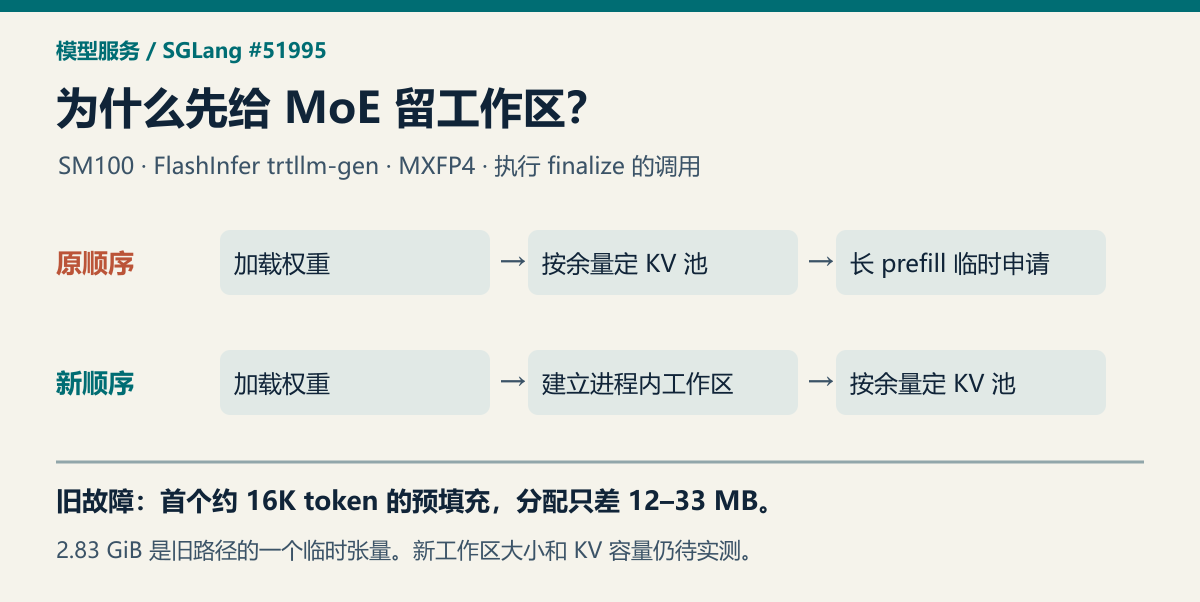
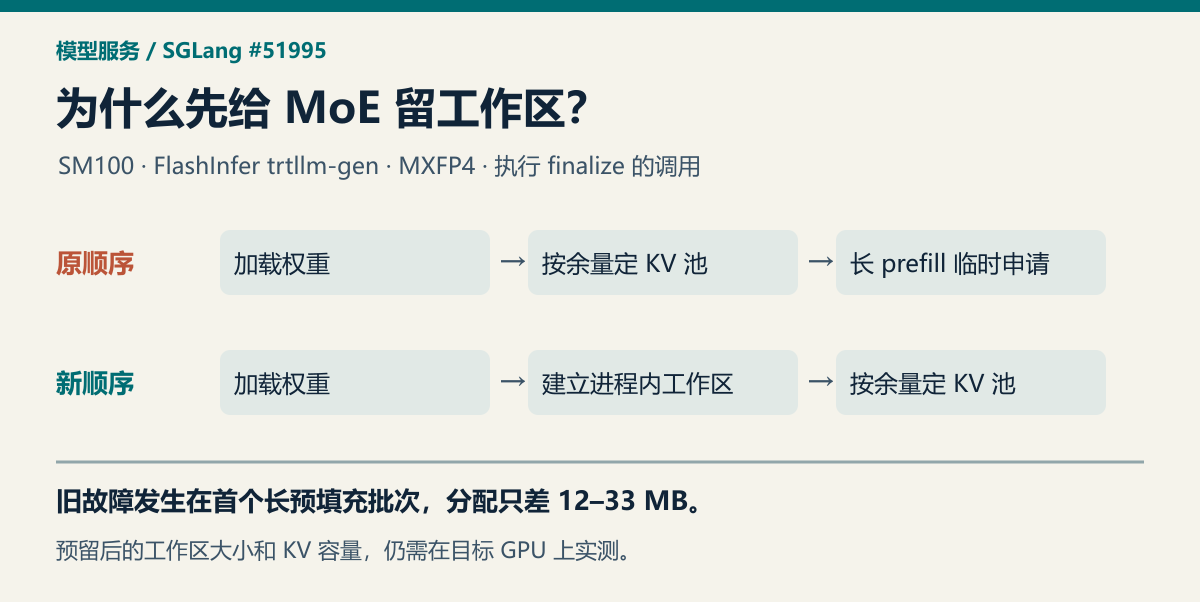
docs(report): 归档 11 月 22 日六篇 AI Infra 晨报

Changed region(s): [[0.0925, 0.8073, 0.6475, 0.8671], [0.0308, 0.897, 0.6167, 0.9568]]

diff --git a/reports/2026-11-22/articles/inference-engines.md b/reports/2026-11-22/articles/inference-engines.md
@@ -1,19 +1,21 @@
-# 推理引擎每日变动：vLLM 加快循环状态更新，SGLang 减少 Q/K 拷贝
+# 推理引擎每日变动：vLLM 新增 GDN 解码内核，SGLang 减少 Q/K 拷贝
 
-本期代码窗口为北京时间 11 月 21 日 06:20 至 22 日 06:20。vLLM 和 SGLang 都减少了推理中的内存操作，但一个改的是循环状态更新，另一个改的是 Q/K 归一化。下面分别给出实现、负载和计时单位。
+本期代码窗口为北京时间 11 月 21 日 06:20 至 22 日 06:20。vLLM 调整 GDN 循环状态更新，SGLang 调整 ROCm 上的 Q/K 归一化。
 
 ## vLLM
 
-11 月 21 日合入的 #69065 为 CUDA 上的 BF16/FP16 GDN 循环状态增加 MTP 解码内核。新路径用 16 个 lane 分组、128 位读写在寄存器与显存间搬运状态，同时保持与原路径一致的归约顺序。小批次或 FP32 状态仍可走旧路径。作者用 FP32、BF16 和 FP16 循环状态做了共 240 组逐位比对，输出和状态均一致。其中，FP16 用例和下文 FP16 微基准都以补入本 PR 的 FP16 支持后的旧融合 CUDA 内核为参照。合并前的基线代码只接受 BF16 或 FP32 循环状态：FP16 默认回退到 Triton，显式设置 `VLLM_GDN_DECODE_KERNEL=cuda` 则会报错。[内核和正确性测试](https://api.github.com/repos/vllm-project/vllm/pulls/69065) · [分派条件和实际差异](https://api.github.com/repos/vllm-project/vllm/pulls/69065/files?per_page=100) · [合并前的分派源码](https://raw.githubusercontent.com/vllm-project/vllm/2f170a0fed20fd84dfcf6da2a3a8188a32f67e4e/vllm/model_executor/layers/mamba/gdn/qwen_gdn_linear_attn.py)
+北京时间 11 月 21 日合入的 #69065 为 BF16/FP16 循环状态新增 GDN MTP 解码内核。这个内核只为 `sm_103a` 构建，调整了点积归约时线程间交换数据的方式。[内核和正确性测试](https://api.github.com/repos/vllm-project/vllm/pulls/69065) · [分派条件和实际差异](https://api.github.com/repos/vllm-project/vllm/pulls/69065/files?per_page=100)
 
-另一次端到端解码对照在 4×GB300 上运行 Qwen3.8-Flash-Next-FP8，使用 DEP4、MTP3 和 FP16 状态。测试先缓存 30,720 个前缀 token，再输入 1 个、生成 1,024 个。**每个引擎 32 个请求**时，作者用缓存命中的平均 TPOT 乘以平均接受长度，折算每个 decode step 从 16.92–16.98 ms 降至 16.07–16.11 ms。这个值覆盖缓存命中后的解码，未计入冷预填充。作者另报的 1.3–1.6 倍是微内核计时，不能直接换算成在线吞吐增幅。窗内默认分支提交和合并 PR 各 35 项；官方博客最新所见的 Mini 技术文章已在上期报道。[服务负载与计时](https://api.github.com/repos/vllm-project/vllm/pulls/69065) · [提交记录](https://api.github.com/repos/vllm-project/vllm/commits?page=1&per_page=100&since=2026-11-20T22%3A20%3A00Z&until=2026-11-21T22%3A20%3A00Z) · [官方博客](https://vllm.ai/blog)
+合并前，FP16 循环状态默认回退到 Triton。这次改动也让融合 CUDA 路径能接受 FP16 状态。核对服务所用路径时，需要结合状态精度、设备和实际分派条件。[内核和正确性测试](https://api.github.com/repos/vllm-project/vllm/pulls/69065) · [合并前的分派源码](https://raw.githubusercontent.com/vllm-project/vllm/2f170a0fed20fd84dfcf6da2a3a8188a32f67e4e/vllm/model_executor/layers/mamba/gdn/qwen_gdn_linear_attn.py)
+
+本期同时核对了 vLLM 默认分支和官方博客。[提交记录](https://api.github.com/repos/vllm-project/vllm/commits?page=1&per_page=100&since=2026-11-20T22%3A20%3A00Z&until=2026-11-21T22%3A20%3A00Z) · [官方博客](https://vllm.ai/blog)
 
 ## SGLang
 
-11 月 21 日合入的 #39071 在 ROCm 上直接把 packed QKV 中 Q、K 切片的实际步长交给融合归一化内核，原地更新，省去先整理为连续二维张量的拷贝。空批次直接返回；视觉分支在 TP 大于 1 时保留跨全部头的归一化。JIT 不可用还有回退路径。[步长传递与路径选择](https://api.github.com/repos/sgl-project/sglang/pulls/39071/files?per_page=100)
+北京时间 11 月 21 日合入的 #39071 让 ROCm 融合归一化内核直接处理 packed QKV 中带步长的 Q、K 切片，并原地更新。命中这条路径时，可以省去为归一化准备连续张量的拷贝。[步长传递与路径选择](https://api.github.com/repos/sgl-project/sglang/pulls/39071/files?per_page=100) · [合并说明](https://api.github.com/repos/sgl-project/sglang/pulls/39071)
 
-PR 说明在本期截止后有过更新。以下是取证时读到的作者结果，合并时间则由窗内记录确认。MI355X 的 BF16 图重放测试显式设置了 `SGLANG_USE_AITER=1`。基线先拷贝 Q/K，再分别为 Q 和 K 启动一次 AITER RMSNorm；换用融合内核后，12 个形状的逐项耗时之和从 640.5 降到 182.7 微秒。另在 MI325X 上，用 Qwen3-30B-A3B、TP1、随机 1,024 入/128 出、关闭 radix cache 做三对交替离线运行，吞吐中位变化为 +3.11%；无需 QK norm 的 Mistral-7B 对照为 −0.21%。两组硬件、负载和指标都不同，在线 P99 尚待实测。窗内默认分支提交和合并 PR 各 96 项；已读官方目录没有可核定的新文。[作者的分平台数据](https://api.github.com/repos/sgl-project/sglang/pulls/39071) · [窗内合并列表](https://api.github.com/search/issues?order=desc&page=1&per_page=100&q=repo%3Asgl-project%2Fsglang+is%3Apr+merged%3A2026-11-20T22%3A20%3A00Z..2026-11-21T22%3A20%3A00Z&sort=updated) · [官方博客](https://www.sglang.io/blog)
+本期还核对了 SGLang 的窗内合并列表和官方博客。[窗内合并列表](https://api.github.com/search/issues?order=desc&page=1&per_page=100&q=repo%3Asgl-project%2Fsglang+is%3Apr+merged%3A2026-11-20T22%3A20%3A00Z..2026-11-21T22%3A20%3A00Z&sort=updated) · [官方博客](https://www.sglang.io/blog)
 
 ## DeepInfer
 
-当窗默认分支提交为 0，全仓合并 PR 为 0，release 列表为空。官方 Open Infra 文章目录最新顶级月份为 2025 年 5 月，结合仓库 README、提交与 PR 检查，本窗没有找到可定为新文章的内容。README 介绍的开源离线推理能力可作背景，本期没有据此新增引擎事件。[默认分支提交](https://api.github.com/repos/deepseek-ai/DeepInfer/commits?page=1&per_page=100&since=2026-11-20T22%3A20%3A00Z&until=2026-11-21T22%3A20%3A00Z) · [全仓合并列表](https://api.github.com/search/issues?order=desc&page=1&per_page=100&q=repo%3Adeepseek-ai%2FDeepInfer+is%3Apr+merged%3A2026-11-20T22%3A20%3A00Z..2026-11-21T22%3A20%3A00Z&sort=updated) · [发布列表](https://api.github.com/repos/deepseek-ai/DeepInfer/releases?page=1&per_page=5) · [Open Infra 目录](https://raw.githubusercontent.com/deepseek-ai/open-infra-index/HEAD/README.md) · [官方 README](https://raw.githubusercontent.com/deepseek-ai/DeepInfer/HEAD/README.md)
+本窗口的默认分支提交和全仓合并 PR 均无新增，读取的 release 列表为空。已核对的官方 Open Infra 目录和仓库 README 也未提供可确认为本期新文的条目。[默认分支提交](https://api.github.com/repos/deepseek-ai/DeepInfer/commits?page=1&per_page=100&since=2026-11-20T22%3A20%3A00Z&until=2026-11-21T22%3A20%3A00Z) · [全仓合并列表](https://api.github.com/search/issues?order=desc&page=1&per_page=100&q=repo%3Adeepseek-ai%2FDeepInfer+is%3Apr+merged%3A2026-11-20T22%3A20%3A00Z..2026-11-21T22%3A20%3A00Z&sort=updated) · [发布列表](https://api.github.com/repos/deepseek-ai/DeepInfer/releases?page=1&per_page=5) · [Open Infra 目录](https://raw.githubusercontent.com/deepseek-ai/open-infra-index/HEAD/README.md) · [官方 README](https://raw.githubusercontent.com/deepseek-ai/DeepInfer/HEAD/README.md)

diff --git a/reports/2026-11-22/articles/model-architecture-status.md b/reports/2026-11-22/articles/model-architecture-status.md
@@ -1,17 +1,15 @@
 # 模型与架构：Inkling 2 Mini 合入 vLLM，三遍循环各存一份状态
 
-昨天的晨报记录了固定版 Inkling 2 Mini 检查点。11 月 21 日新增的是 vLLM 主线合并 #69028，涉及 54 个文件。此前记录的模型卡口径为总参数 26.4B、单遍激活 3.4B，计入循环后每 token 有效权重激活约 5.4B。约 20 GB 是混合 NVFP4/MXFP8 检查点文件大小，实际服务还要给运行状态留空间。[上游合并及复核](https://api.github.com/repos/vllm-project/vllm/pulls/69028) · [此前固定版本的模型卡](https://huggingface.co/thinkingmachines/Inkling-2-Mini/raw/1fb4134b9a74f9681054f4ef82e4bf1f458a2337/README.md)
+上期记录了 Inkling 2 Mini 的固定版检查点。北京时间 11 月 22 日，vLLM 主线合入 #69028，加入这款循环 MoE 模型的实现。部署时，模型权重和各遍计算留下的运行状态要分别计入显存。[上游合并及复核](https://api.github.com/repos/vllm-project/vllm/pulls/69028) · [此前固定版本的模型卡](https://huggingface.co/thinkingmachines/Inkling-2-Mini/raw/1fb4134b9a74f9681054f4ef82e4bf1f458a2337/README.md)
 
 ## 为什么要保存三遍状态
 
-每个 token 三次经过第 6–17 层。每遍从前段产生的注意力残差状态开始，后续遍通过门控读入上一遍的消息。核心计算可以共用参数，但一遍生成的注意力历史和卷积状态有自己的时间顺序。实现把各遍的注意力缓存呈现为额外的缓存层，复用引擎的 KV 管理和前缀缓存，再分别维护各遍卷积状态。固定三遍 Mini 与可调遍数的研究模型应分别核对，后者可以选择共享 KV 的配置，卷积状态仍要分遍。[循环、状态和缓存的实现](https://api.github.com/repos/vllm-project/vllm/pulls/69028/files?per_page=100)
+固定版 Mini 的每个 token 都要经过同一组核心层三遍。三遍共享核心权重。从第二遍开始，门控会把上一遍的消息带进当前计算。各遍的注意力历史和卷积状态要分别保存。vLLM 把每遍的注意力缓存表示为额外缓存层，沿用现有 KV 管理和前缀缓存。[循环、状态和缓存的实现](https://api.github.com/repos/vllm-project/vllm/pulls/69028/files?per_page=100)
 
 ![固定版 Mini 共享核心权重，各遍分别写入 KV 与卷积状态](assets/inkling-state.png)
 
-在 GB200 上，作者用 TP1、DSpark、温度 0 做了 200 道 GSM8K 题，得到 97.0%，平均接受长度 3.58。先前实现是 97.5%，相差一道题。另一个 #69021 测的是 GB10 上 hidden 4608 的矩阵乘微内核，从 210 降到 141 微秒；Mini 的 hidden 是 2304，不能据此给 Mini 的整段服务标加速比。本期核到的 vLLM 最新稳定版 v0.34.0 发布早于此次合并。[GB200 复核](https://api.github.com/repos/vllm-project/vllm/pulls/69028) · [GB10 后续优化](https://api.github.com/repos/vllm-project/vllm/pulls/69021) · [稳定版记录](https://api.github.com/repos/vllm-project/vllm/releases/latest)
+## 部署时怎样确认支持
 
-## 超配验证要检查什么
+本期查到的稳定版发布早于此次合入。使用固定版 Mini 前，可先检查部署版本是否包含这次模型适配。相关的 GB10 矩阵乘微内核优化记录在另一个 PR 中。[上游合并及复核](https://api.github.com/repos/vllm-project/vllm/pulls/69028) · [稳定版记录](https://api.github.com/repos/vllm-project/vllm/releases/latest) · [GB10 后续优化](https://api.github.com/repos/vllm-project/vllm/pulls/69021)
 
-先确认资源分配器能识别目标设备与拓扑，再用固定检查点、量化打包和相同 rank 布局，比较单实例原生与受管分配器的输出、逐遍 KV 和卷积状态。前缀命中、扩缩回收和图重放都要覆盖。同模型双实例还要测共享权重的所有者退出后另一个实例能否继续，以及两租户混合长短请求时的峰值、吞吐和 P99。不同模型独立计算权重。现有 GB200 复核尚不能回答 H100、H200 的同卡双实例表现，Pro5500 的准确型号也待核实。[原生缓存与设备适配范围](https://api.github.com/repos/vllm-project/vllm/pulls/69028/files?per_page=100)
-
-本期已核对智谱、DeepSeek、Qwen 在 ModelScope 的组织清单，按更新时间倒序检查到七天下界。智谱博客返回 404，已读官网研究目录和更新记录不足以覆盖全部文章，因此保留架构方向缺口。[智谱研究目录](https://www.zhipuai.cn/zh/research) · [官方更新记录](https://docs.z.ai/release-notes/new-released.md)
+本期查过智谱、DeepSeek 和 Qwen 的 ModelScope 组织清单。智谱博客返回 404。已读官网研究目录和更新记录未覆盖全部文章，架构方向保留这一缺口。[智谱研究目录](https://www.zhipuai.cn/zh/research) · [官方更新记录](https://docs.z.ai/release-notes/new-released.md)

diff --git a/reports/2026-11-22/articles/hardware-status.md b/reports/2026-11-22/articles/hardware-status.md
@@ -1,18 +1,9 @@
-# 硬件与算力平台：四张 RTX 3090 上，解码提速，冷预填充几乎持平
+# 硬件与算力平台：Merlin 更新四张 RTX 3090 上的 P2P 解码默认设置
 
-一套四卡工作站既要处理聊天，也要读长文档。升级后回答是否生成得更快，和读完一篇长文档要多久，可以在同一台机器上得到不同答案。11 月 21 日，Merlin Engine 发布提交记录了 3.0.2.2 的四卡对照，旧版是 3.0.2.1。两份测试卡给出了各自的请求长度和计时口径。[版本提交](https://api.github.com/repos/halt95/merlin-engine/commits/5522dd91266d42b628ba2ffab801b364ed5e384c) · [3.0.2.1 基线卡](https://raw.githubusercontent.com/halt95/merlin-engine/5522dd91266d42b628ba2ffab801b364ed5e384c/benchmarks/2026-11-12/Qwen3.8-27B-BENCH-CARD.md) · [3.0.2.2 测量卡](https://raw.githubusercontent.com/halt95/merlin-engine/5522dd91266d42b628ba2ffab801b364ed5e384c/benchmarks/2026-11-21/Qwen3.8-27B-BENCH-CARD.md)
+北京时间 11 月 21 日，Merlin Engine 的 3.0.2.2 发布提交更新了 Qwen3.8-27B 在四张 RTX 3090 上的启动配置。使用 `27b-tp4-3090` 且开启 P2P 时，新版启动器为四个解码选项提供默认值。用户显式设置的值优先。[版本提交](https://api.github.com/repos/halt95/merlin-engine/commits/5522dd91266d42b628ba2ffab801b364ed5e384c)
 
-| 客户端测量 | 3.0.2.1 | 3.0.2.2 | 怎么读 |
-| --- | --- | --- | --- |
-| 4,046 token 输入、thinking on，单流解码 | 262.0 tok/s | 315.5 tok/s | 三个有效请求的中位数，约高 20.4% |
-| 同一解码行的首 token 时间 | 1.06 s | 1.06 s | 测试卡报告第一次请求的 TTFT |
-| 261,888 token 冷预填充 | 2,115 tok/s | 2,118 tok/s | 每个深度一次请求 |
-| 同一长输入的首 token 时间 | 123.8 s | 123.6 s | 仍需约两分钟 |
+## 升级时要看哪一层配置
 
-旧版卡的 3.0.2.1 数字取自 11 月 10 日构建的 `0.33.0+merlin.c56eeed392`。发布 wheel 有三个引擎文件与它不同，涉及本模型未启用的预填充调度。作者仅另做了一次输出抽查：温度 0、同一提示、单会话下，两份构建生成的 256 个 token ID 相同；表中的性能基线来自较早构建。[基线构建与一致性抽查](https://raw.githubusercontent.com/halt95/merlin-engine/5522dd91266d42b628ba2ffab801b364ed5e384c/benchmarks/2026-11-12/Qwen3.8-27B-BENCH-CARD.md)
+从 3.0.2.1 升级时，即使启动命令仍用同一个配置名，引擎拿到的解码选项也可能变化。核对现有服务时，可以先查看 P2P 是否开启，再检查启动环境中有哪些显式覆盖。[版本提交](https://api.github.com/repos/halt95/merlin-engine/commits/5522dd91266d42b628ba2ffab801b364ed5e384c)
 
-## 测试条件决定数字能用在哪里
-
-两版运行在同一台 4×RTX 3090 主机上，每卡限功耗 220 W，使用 PCIe Gen4、定制 P2P 驱动 610.43.02，没有 NVLink。模型为 Qwen3.8-27B，W4A16、FP8 KV、TP4、MTP K=4，启用 RecoverSSM。新版把四卡 P2P 解码设置设为默认。首 token 之前主要在处理输入，后续解码则反复跨卡协作；这组数据能把两段用户等待分开，无法单独定量每项设置的贡献。[配置和分项结果](https://raw.githubusercontent.com/halt95/merlin-engine/5522dd91266d42b628ba2ffab801b364ed5e384c/benchmarks/2026-11-21/Qwen3.8-27B-BENCH-CARD.md)
-
-新版卡的一部分单卡、双卡行沿用了旧测。八路并发另按八条流同时活跃的重叠时段统计，不宜和单路一整次请求的速率直接换算。作者未公开原始流或启动日志。复测宜从同一引擎、驱动、拓扑和原始请求长度开始，再在目标卡上更换一个条件；H100、H200 和型号待核实的 Pro5500 均没有这份同配置实测。[基线采样说明](https://raw.githubusercontent.com/halt95/merlin-engine/5522dd91266d42b628ba2ffab801b364ed5e384c/benchmarks/2026-11-12/Qwen3.8-27B-BENCH-CARD.md) · [新卡的统计范围](https://raw.githubusercontent.com/halt95/merlin-engine/5522dd91266d42b628ba2ffab801b364ed5e384c/benchmarks/2026-11-21/Qwen3.8-27B-BENCH-CARD.md)
+项目分别保留了新旧两版的测试卡，记录了各自的构建、四卡主机和启动条件。维护同类主机时，可据此核对本机配置。[3.0.2.1 基线卡](https://raw.githubusercontent.com/halt95/merlin-engine/5522dd91266d42b628ba2ffab801b364ed5e384c/benchmarks/2026-11-12/Qwen3.8-27B-BENCH-CARD.md) · [3.0.2.2 测量卡](https://raw.githubusercontent.com/halt95/merlin-engine/5522dd91266d42b628ba2ffab801b364ed5e384c/benchmarks/2026-11-21/Qwen3.8-27B-BENCH-CARD.md)

diff --git a/reports/2026-11-22/articles/embodied-training.md b/reports/2026-11-22/articles/embodied-training.md
@@ -1,22 +1,13 @@
-# 制造业具身智能训练：动作可以提前输出，控制效果还得在闭环里测
+# 制造业具身智能训练：LeRobot 合入 NAT VLA，MuJoCo 重训复核抬升效果
 
-机械臂执行一段动作时，控制器要尽早收到下一段的开头。另一方面，训练损失接近的两个检查点，也可能在真正闭环执行时有不同表现。11 月 21 日的两份独立项目记录分别回答这两个问题。
+北京时间 11 月 22 日，LeRobot 合入 NAT VLA 策略，独立项目 sim2real-vla 更新了 MuJoCo 重训记录。前者介绍策略如何生成供控制器执行的动作，后者记录策略在仿真中能否完成抬升。
 
-## LeRobot 怎样缩短两段动作之间的空档
+## LeRobot 合入了什么
 
-LeRobot #5416 新增 `nat_vla` 策略。基于 LFM2-VL 的策略自回归生成按时间排列的动作 token；NAT 分词器的因果解码器随即把已有 token 转成动作，调用方在后续 token 仍在生成时就能执行前几个动作。机器人仍在执行上一段末尾动作时，策略可用对应 token 作前缀生成下一段。训练时冻结原词嵌入，对动作 token 计算交叉熵。[合并说明与实验](https://api.github.com/repos/huggingface/lerobot/pulls/5416) · [策略、分词器和测试代码](https://api.github.com/repos/huggingface/lerobot/pulls/5416/files?per_page=100)
+LeRobot #5416 加入基于 LFM2-VL 的 `nat_vla`。策略生成动作 token，NAT 分词器将它们解码成供控制器执行的动作。[合并说明与实验](https://api.github.com/repos/huggingface/lerobot/pulls/5416) · [策略、分词器和测试代码](https://api.github.com/repos/huggingface/lerobot/pulls/5416/files?per_page=100)
 
-作者用 LIBERO 做了 100 步微调并验证保存和重载。在 RTX 4090 处理 LIBERO 帧时，首个动作约需 40 ms；在 30 Hz 的循环里，动作段长 16 步、提前 8 步衔接，首段之后的换段等待由约 40 ms 降至 0.1 ms。0.1 ms 说的是后续换段的空档。合并时默认策略权重和 NAT 分词器尚未公开供下载，依赖它们的测试被跳过；代码与派生权重的许可也不同。复现前先确认对应权重、分词器和摄像头到控制器的端到端时序。[实测口径、权重状态及许可](https://api.github.com/repos/huggingface/lerobot/pulls/5416)
+合入时，默认 NAT VLA 预训练权重和动作分词器尚未在 Hugging Face Hub 公开。[合入时的权重与分词器说明](https://api.github.com/repos/huggingface/lerobot/pulls/5416)
 
-## 独立的 MuJoCo 重训测到了什么
+## MuJoCo 怎样检查重训后的策略
 
-sim2real-vla 的提交 `2ad8e59` 更新了实验记录。两次训练沿用归档配置，重新生成 257,740 帧，全局 batch 都是 256，但从四卡、梯度累积两次改为两卡、累积四次，样本顺序也随之变化。每个任务、每个切分使用 200 个固定种子回合做闭环评估。[实验记录的提交](https://api.github.com/repos/OJ102/sim2real-vla/commits/2ad8e59935f536a1a4751304398cd16024496c2e) · [固定版本的任务与切分](https://raw.githubusercontent.com/OJ102/sim2real-vla/45f56372b3198ee11d41d84fc1bfc2e84a14b705/README.md)
-
-| 离散策略指标 | 原训练 | 重训 |
-| --- | --- | --- |
-| 验证损失 | 1.612 | 1.636 |
-| 位置误差 | 1.32 cm | 1.57 cm |
-| 训练分布的抬升成功率 | 61% | 34% |
-| 留出集的抬升成功率 | 29% | 21% |
-
-这两次仿真训练给出了为什么要保留闭环检查的实例，还不足以分离卡数、样本顺序等因素的因果贡献。它们没有测试 NAT VLA。面向产线，可分别验相机时间戳、控制频率、物料扰动下的抓放成功率和失误恢复，再把这些指标与换段等待一同记录。
+sim2real-vla 用归档配置重新训练离散策略。这一次重训在第 1,000 步的验证集主损失与原训练接近，但在 MuJoCo 仿真的闭环评估中，训练分布和留出集的抬升成功率都下降了。评估重训能否保留操作能力时，可以直接查两个切分的任务结果。[实验记录的提交](https://api.github.com/repos/OJ102/sim2real-vla/commits/2ad8e59935f536a1a4751304398cd16024496c2e) · [固定版本的任务与切分](https://raw.githubusercontent.com/OJ102/sim2real-vla/45f56372b3198ee11d41d84fc1bfc2e84a14b705/README.md)

diff --git a/reports/2026-11-22/articles/small-model-status.md b/reports/2026-11-22/articles/small-model-status.md
@@ -1,13 +1,13 @@
 # 前沿小模型：有多少组采样真的见过新动作成功
 
-一把钥匙没打开箱子，模型可以继续试，也可以换锤子。如果基础策略在训练采样里几乎从未靠换工具拿到奖励，光数训练步数，很难判断强化学习能否学会切换。论文《RL Can Only Reinforce What It Sees Succeed》用可控的模板游戏研究这个问题。v1 提交于 11 月 19 日 13:24 UTC，本篇属 72 小时回溯；本期 24 小时限定论文检索没有命中。[原始日期和摘要](https://arxiv.org/abs/2611.26084v1) · [论文全文](https://arxiv.org/html/2611.26084v1)
+一把钥匙没打开箱子，模型可以继续试，也可以换锤子。如果基础策略很少靠新动作赢得奖励，强化学习有多少机会练到它？《RL Can Only Reinforce What It Sees Succeed》用合成游戏研究这个问题。论文 v1 于北京时间 11 月 19 日提交，属于本期的 72 小时回溯。[原始日期和摘要](https://arxiv.org/abs/2611.26084v1) · [论文全文](https://arxiv.org/html/2611.26084v1)
 
-## 一组有一次获胜就计一次
+## 哪些尝试计入成功组
 
-作者构造预训练语料，从头训练小型 GPT。主设置为六层、10.7M 参数，另测 1.3M 至 85M 规模，实验使用 NVIDIA A6000 和 BF16。先用基础模型估计对同一道题采样多次时，至少一次尝试既换了动作又赢得奖励的概率，再折算整个训练预算下预期有多少组满足这两个条件。同一组里赢了多次，计算成功组数时仍只算一组。[实验设计和分组定义](https://arxiv.org/html/2611.26084v1)
+作者用小型 GPT 在规则改变的题目上采样。按附录 A.5 的定义，一次尝试要在原动作失败两次或三次后改用备选动作，并最终获胜。每次出题的多次采样组成一组。组内至少一次满足条件，就计一个成功组。同一道题出现两次，两组分别计数。[论文全文](https://arxiv.org/html/2611.26084v1)
 
-![论文图 1 与附录的计数范围：每点十次、拟合四百次、全文一千五百五十八次](assets/rl-groups.png)
+![成功组的定义。每次出题单独计数，组内至少一次在规定失败次数后换动作并获胜。](assets/rl-groups.png)
 
-图 1 横轴是训练开始前估计的成功组数，纵轴是最终学会切换的运行比例。每个点代表 10 次运行，拟合使用 400 次。图上约一半运行会切换的位置标作约 36 个预期成功组；附录 A.5 将同一拟合的半数点表述为约 35 组。附录表 1 汇总全文 1,558 次 RL 运行。三个计数的分母不同。[原始 PDF 第 3 页图 1、第 15 页附录及表 1](https://arxiv.org/pdf/2611.26084v1)
+## 怎样读这个结果
 
-对训练预算有限的小模型，可在训练前按题记录基础策略、组大小和成功率，比较是扩大提示覆盖，还是为同一题增加尝试更有希望。约 35 组是这套训练配方的估计，模型规模和优化设置改变后阈值会移动。论文的实测对象是合成游戏，没有给出通用任务质量、生产推理成本、时延或服务显存的可比数据。[训练变体与适用范围](https://arxiv.org/html/2611.26084v1)
+论文把训练前估计的成功组数与随后学会切换动作的运行比例对照。对这套合成游戏，判断采样预算是否够用，可以先看基础策略在预算内有多少机会实际靠切换动作获胜。实验结果受模型和训练配方影响，未测生产推理成本或通用任务质量。[论文 PDF 与附录 A.5](https://arxiv.org/pdf/2611.26084v1) · [论文全文](https://arxiv.org/html/2611.26084v1)

diff --git a/reports/2026-11-22/articles/model-serving-gpu.md b/reports/2026-11-22/articles/model-serving-gpu.md
@@ -1,15 +1,11 @@
 # 模型服务与 GPU 超配：SGLang 把 MoE 工作区放在 KV 池之前
 
-Kimi K3.1 在 B300 上跑低延迟测试时，模型能正常加载，却会在首个约 16K token 的预填充批次偶发 OOM。此时引擎已经按剩余显存定好了 KV 池，FlashInfer 的 MoE 启动路径才向分配器申请多块工作区，其中一个张量就有 2.83 GiB。这次分配的缺口只有 12–33 MB。[SGLang #51995 的故障记录](https://api.github.com/repos/sgl-project/sglang/pulls/51995)
+北京时间 11 月 22 日，SGLang 合入 #51995。此前 Kimi K3.1 在 B300 上做低延迟测试时，权重已加载，KV 池也已定容，FlashInfer 到首个长预填充批次才为 MoE 申请临时空间。这次分配只差 12–33 MB 就能成功。[SGLang #51995 的故障记录](https://api.github.com/repos/sgl-project/sglang/pulls/51995)
 
 ## 哪一步先占显存
 
-11 月 21 日合入的改动把一次查询移到权重加载阶段。在 SM100 的 trtllm-gen MXFP4 MoE 路径，引擎取预填充缓冲的 token 上限（未设置时用调度器上限），乘以注意力数据并行副本数，再将乘积向上取整到 2 的幂，以这个大小向 FlashInfer 查询所需工作区。引擎先建立一个进程内缓冲，再按余量给 KV 池定容。执行 finalize 的各次 MXFP4 调用可以传入同一块缓冲。[工作区查询、预留与调用点](https://api.github.com/repos/sgl-project/sglang/pulls/51995/files?per_page=100)
+在 SM100 的 trtllm-gen MXFP4 MoE 路径上，引擎在加载权重时查询所需工作区，预留一块进程内缓冲，再按剩余显存给 KV 池定容。执行 finalize 的调用可以复用这块缓冲。[工作区查询、预留与调用点](https://api.github.com/repos/sgl-project/sglang/pulls/51995/files?per_page=100)
 
 ![先预留工作区再为 KV 池定容，两条路径的差异](assets/moe-workspace.png)
 
-这改变了谁先拿到显存。2.83 GiB 是旧故障中观察到的一个张量大小，不能当作节省量。分离部署的 decode 进程跳过预留，延后 finalize 和 prepared-routing 路径仍逐次分配；一次前向超过预留的 token 数，也会临时申请额外空间。作者尚未报告新分支在 GPU 上实测的预留大小和 KV 容量。[适用路径及测量边界](https://api.github.com/repos/sgl-project/sglang/pulls/51995)
-
-## 放到同一张卡上怎么验
-
-容量预算应为不同模型分别计算权重，为各实例列出 KV、MoE 工作区、图和通信内存。即使两个实例使用相同检查点，进程内复用也不能证明跨进程共享。可先在同版本、同精度下记录启动时的池容量与首个长请求峰值，再让两个租户交错提交长短请求，比较首 token 和逐 token 延迟的 P99，并记录超出预留和单进程退出后的恢复。只有这组同卡数据才能回答可容纳多少并发。
+分离部署的解码进程跳过预留。延后 finalize、采用 prepared-routing 或单次前向超出预留上限时，仍会临时分配。检查部署效果时，可记录启动后的 KV 池容量和首个长预填充批次的峰值。作者尚未报告改动后实测的工作区大小和 KV 容量。[SGLang #51995 的故障记录](https://api.github.com/repos/sgl-project/sglang/pulls/51995)
